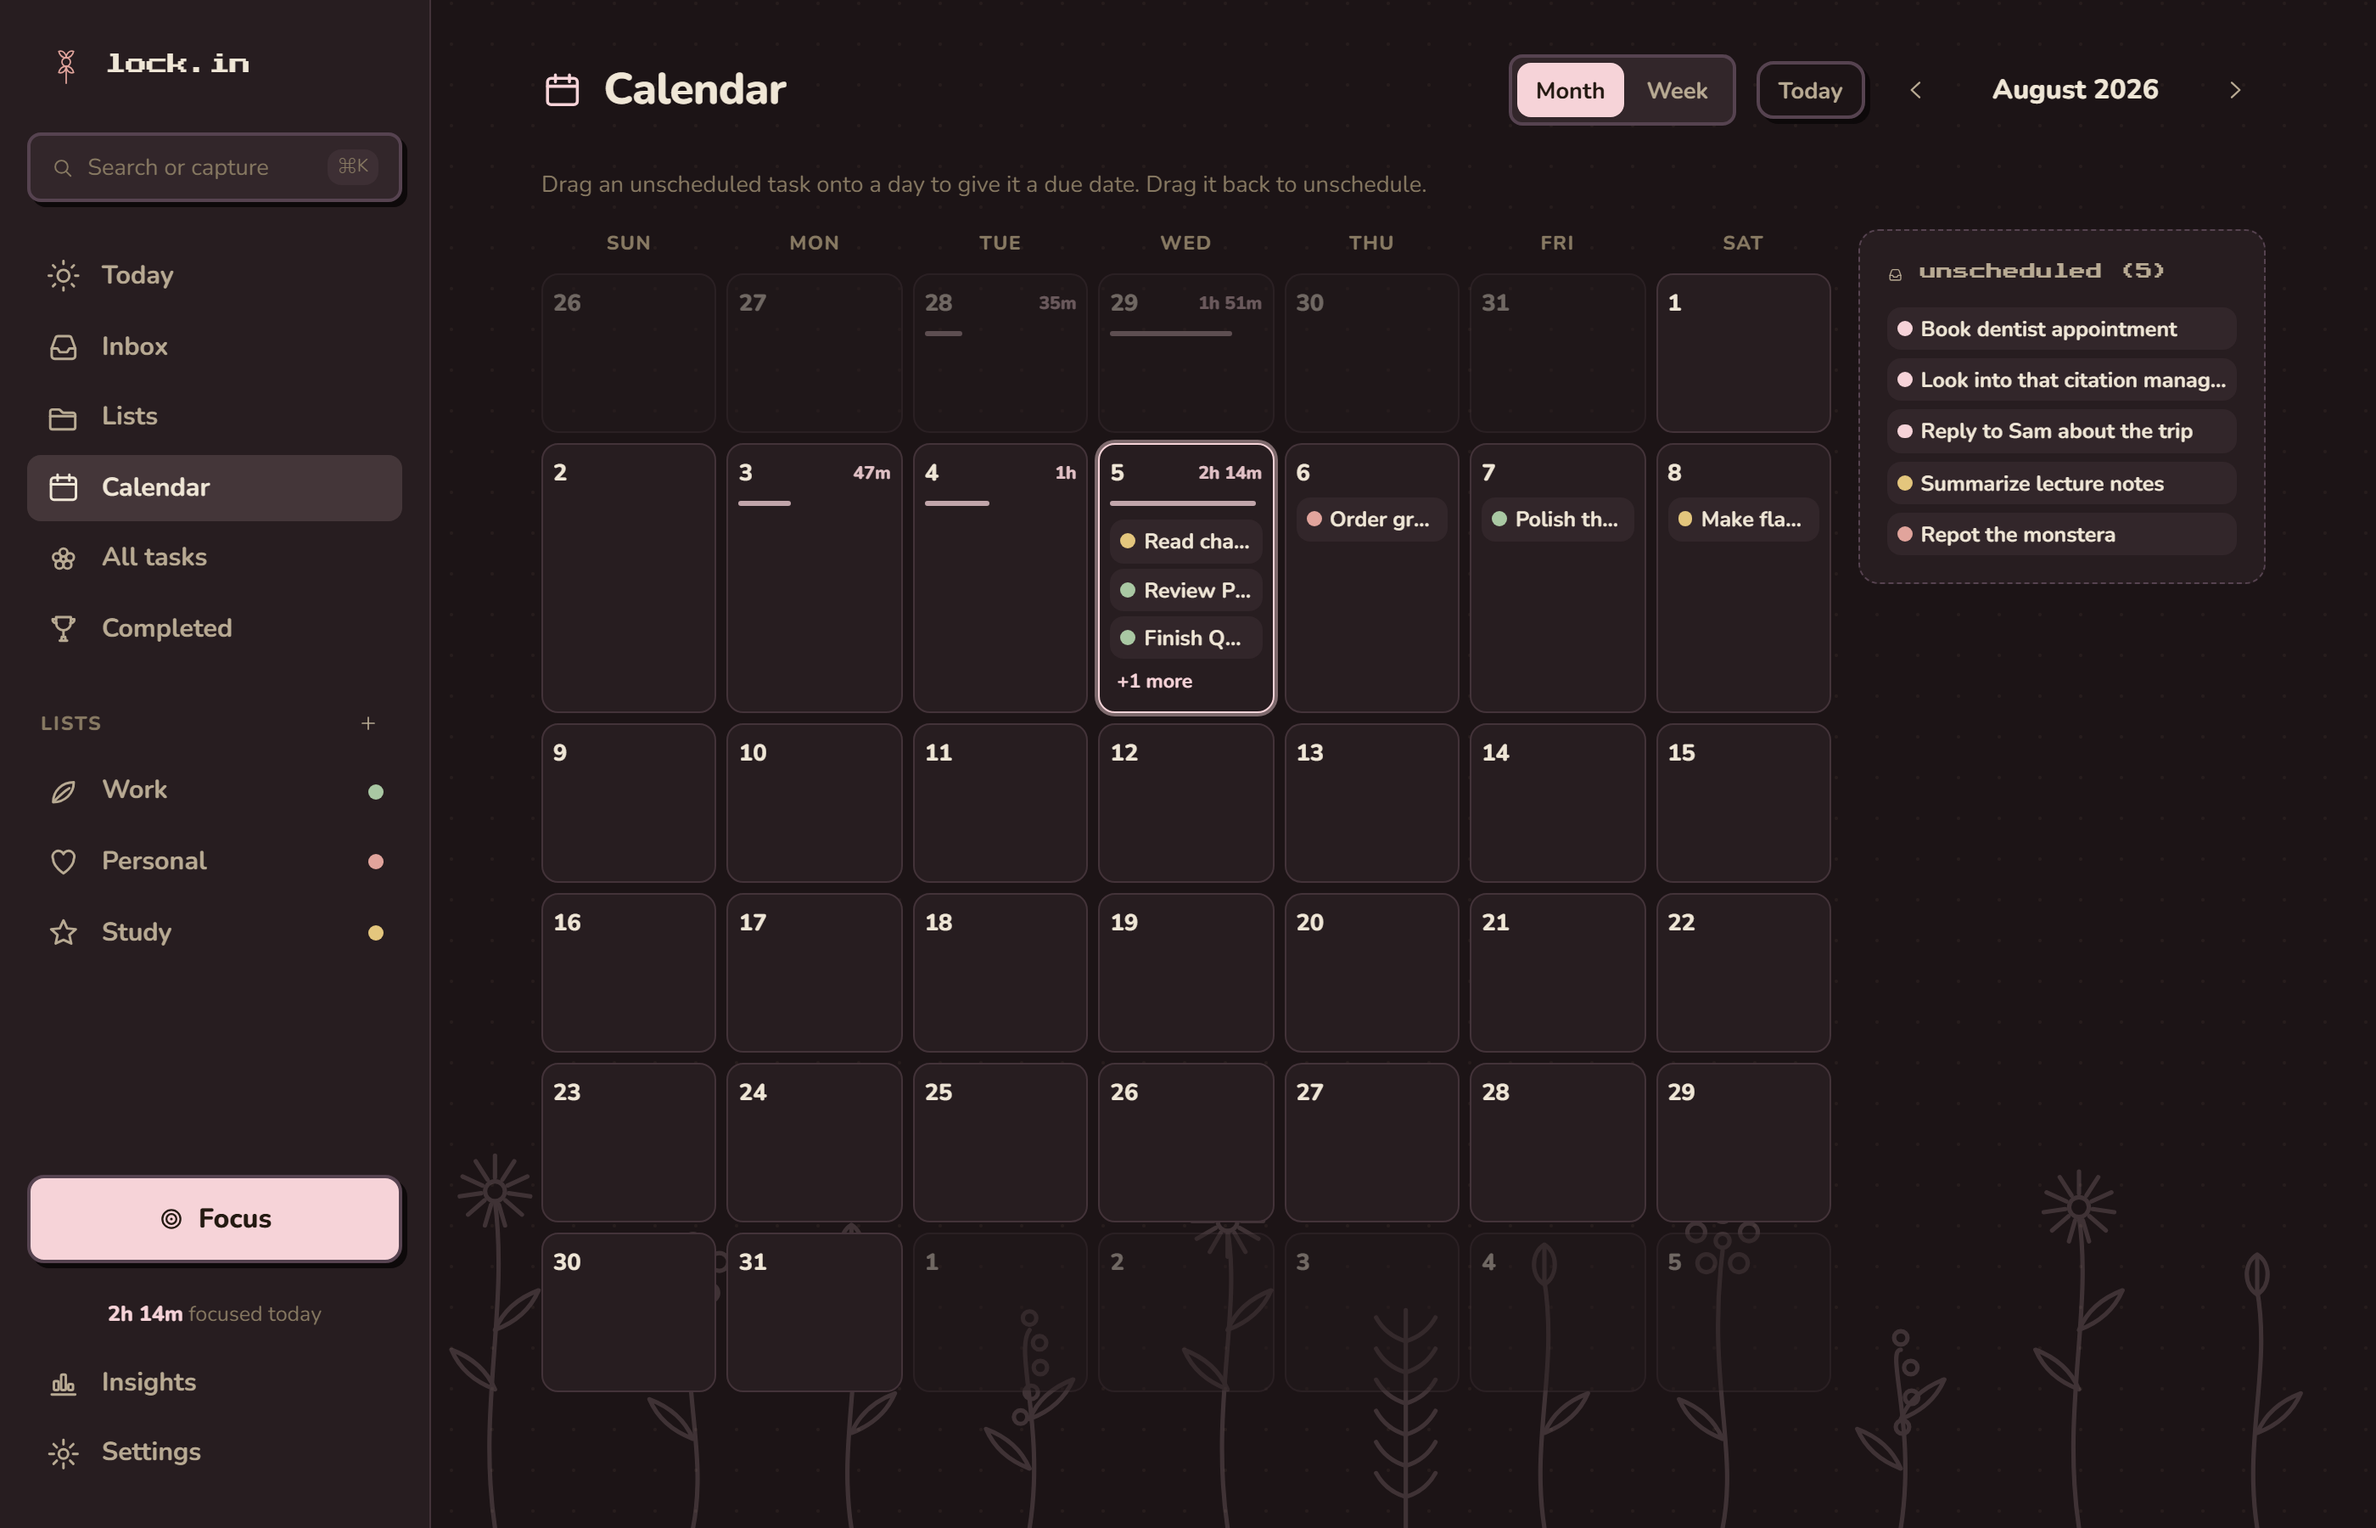
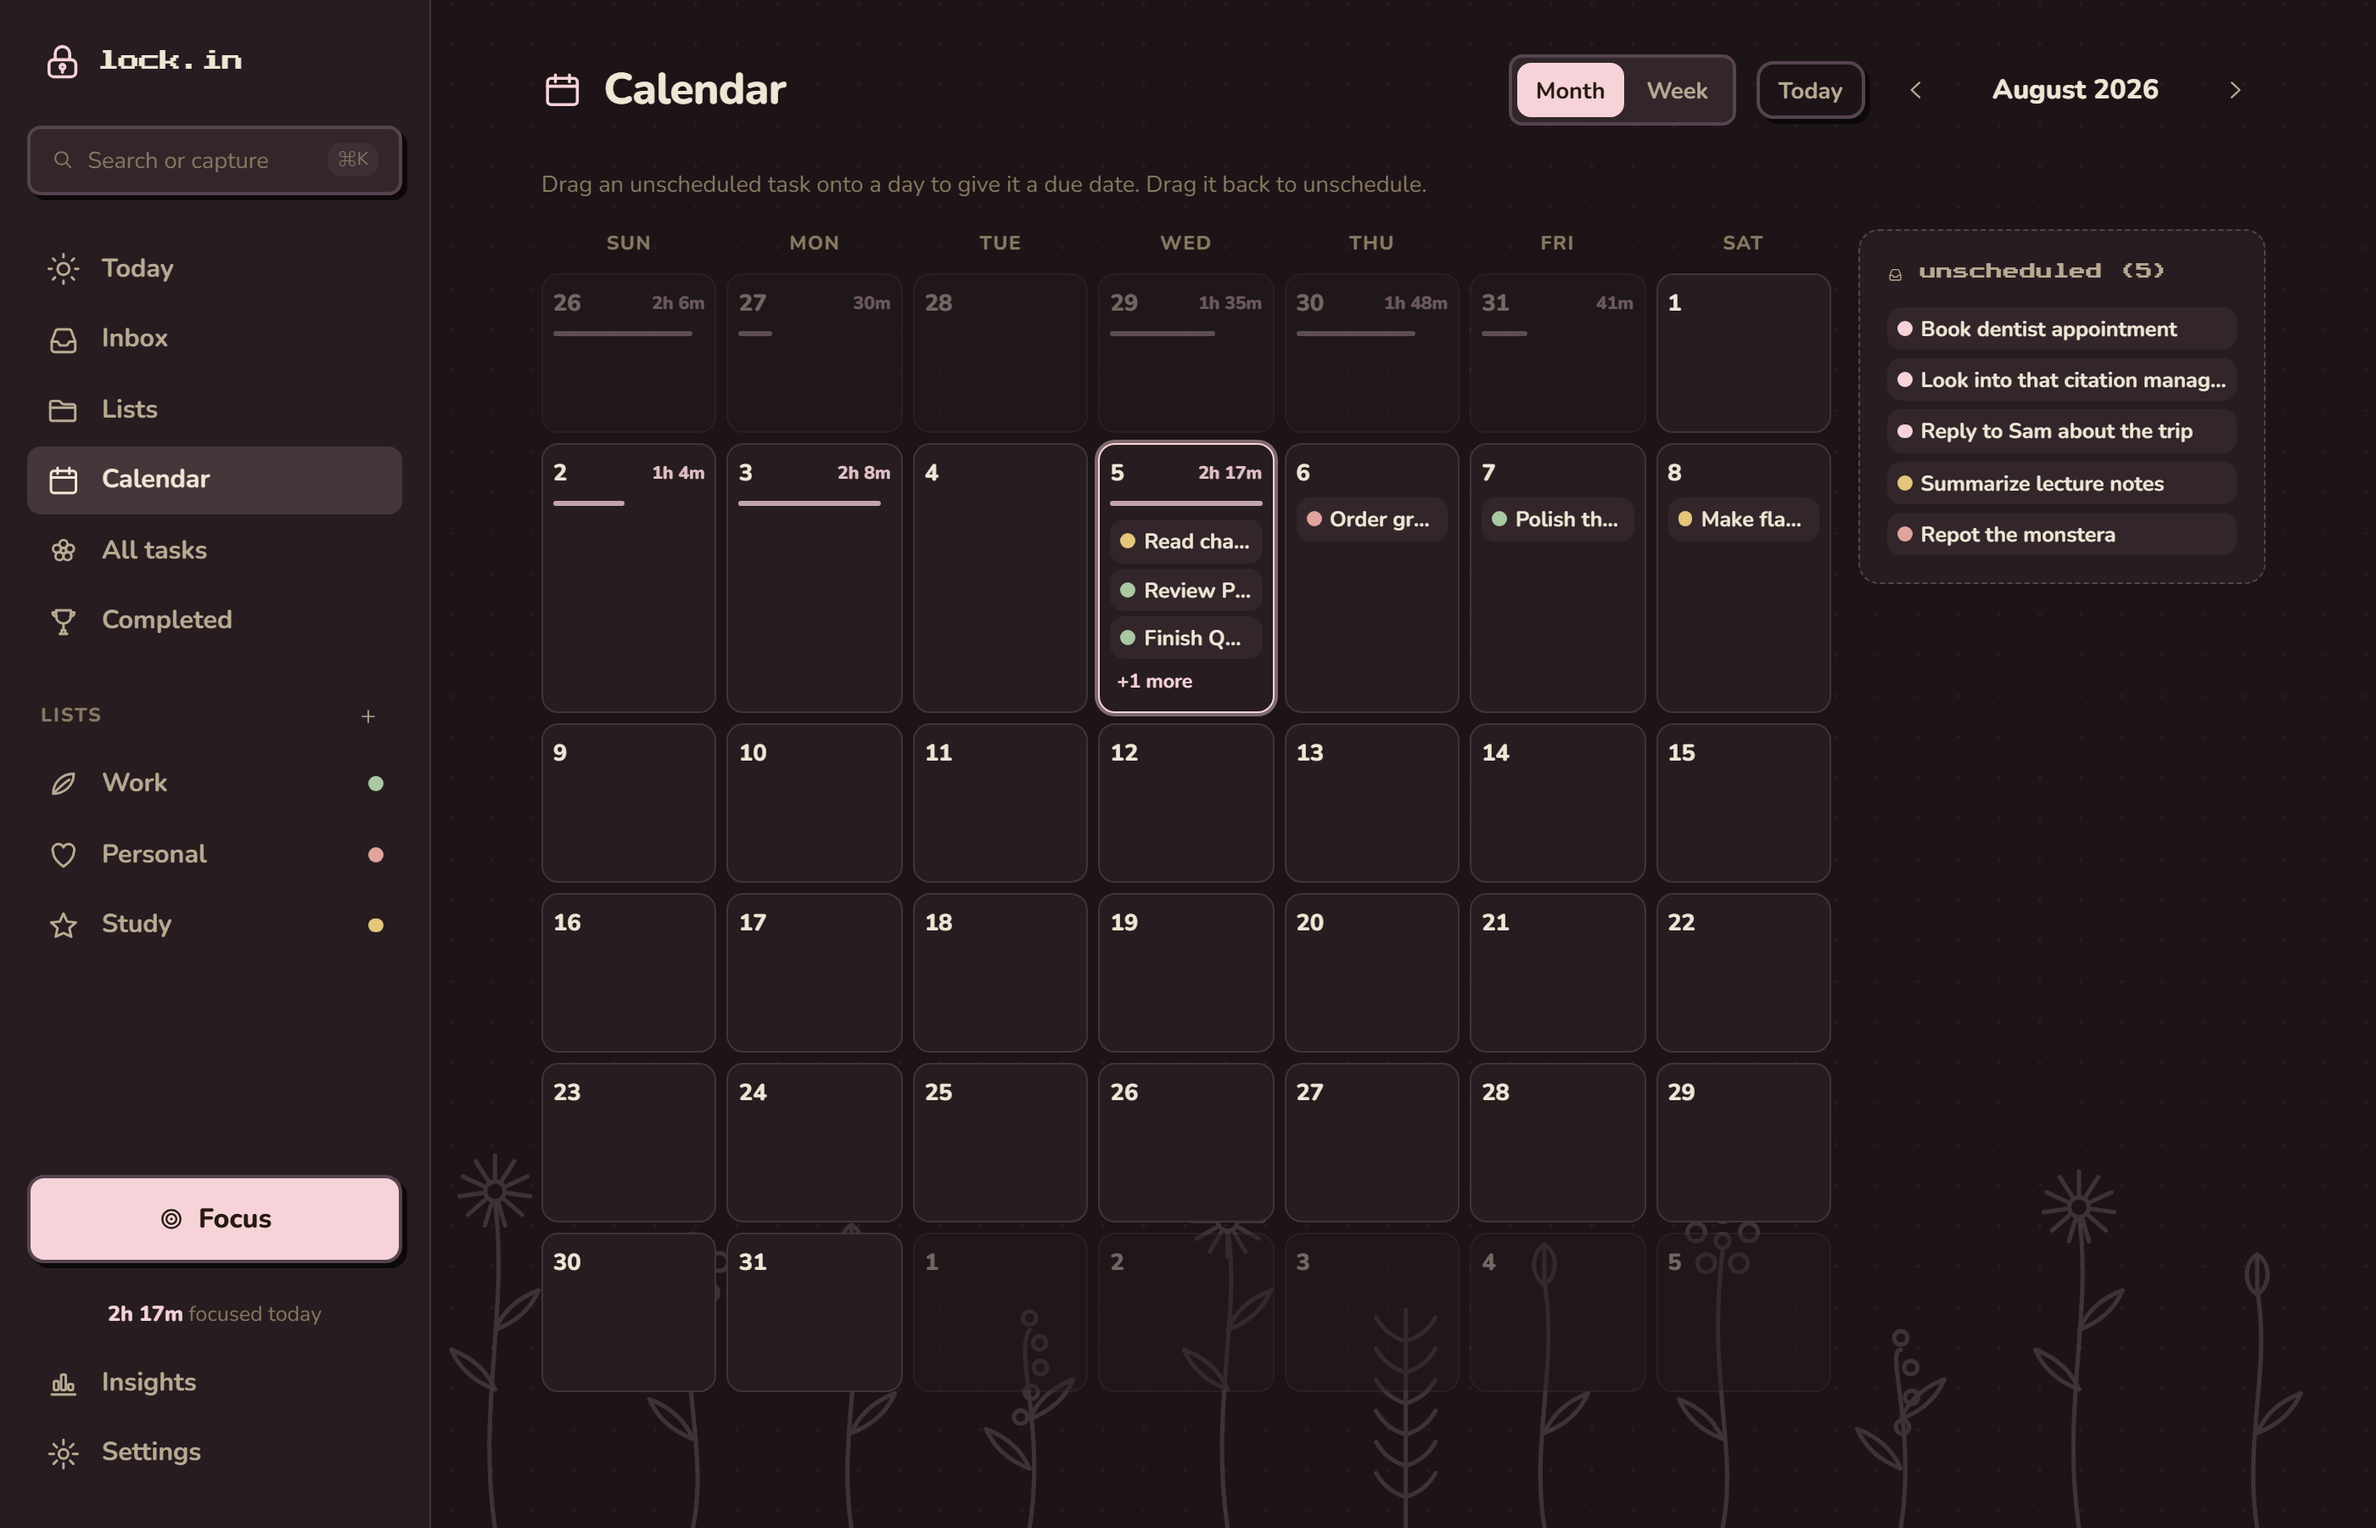
Use one padlock mark everywhere, and give Today's task list room
The brand mark was a flower that changed shape with the vibe, so the logo was
three different things depending on the theme. It's now a single line-drawn
padlock, matching the name, identical across every vibe. The favicon, PWA
icons and Apple touch icon are redrawn from the same shape so the app looks
like itself on a home screen too.

Today's task column was sharing space almost evenly with quick capture, which
only ever holds one input. The rows looked cramped next to the full-width
cards above them, so the split is now 2.2:1 in favour of the tasks.

Copilot-Session: 87884037-54d0-4967-b45f-3a055d461690

diff --git a/src/app/Layout.tsx b/src/app/Layout.tsx
@@ -9,7 +9,6 @@ import { useNativeBlocker } from '../features/focus/nativeBlocker'
 import { useSessionPresence } from '../features/focus/useSessionPresence'
 import { todayFocusedMs } from '../features/insights/aggregations'
 import { formatMinutes } from '../lib/time'
-import { Flourish } from '../components/Flourish'
 import { Icon, ListGlyph } from '../components/Icon'
 import type { IconName } from '../components/Icon'
 import { DecorBackground } from '../components/DecorBackground'
@@ -59,7 +58,7 @@ export function Layout() {
       <DecorBackground />
       <aside className="sidebar">
         <div className="brand">
-          <Flourish variant="bloom" size={30} color="var(--accent-pink)" />
+          <Icon name="lock" className="brand-mark" />
           <span className="brand-name">lock.in</span>
         </div>
 

diff --git a/src/components/Icon.tsx b/src/components/Icon.tsx
@@ -44,6 +44,7 @@ export type IconName =
   | 'circle'
   | 'folder'
   | 'folder-open'
+  | 'lock'
 
 const PATHS: Record<IconName, ReactNode> = {
   sun: (
@@ -220,6 +221,14 @@ const PATHS: Record<IconName, ReactNode> = {
     <>
       <path d="M3 7.5a1.5 1.5 0 0 1 1.5-1.5h4.2a1.5 1.5 0 0 1 1.06.44l1.3 1.3a1.5 1.5 0 0 0 1.06.44h5.38A1.5 1.5 0 0 1 18 9.68v1.32" />
       <path d="M3 18V7.5M3 18a1.5 1.5 0 0 0 1.5 1.5h13.1a1.5 1.5 0 0 0 1.44-1.08l1.6-5.4A1 1 0 0 0 19.68 11H7.4a1.5 1.5 0 0 0-1.44 1.08z" />
+    </>
+  ),
+  lock: (
+    <>
+      <path d="M8 10.5V7.2a4 4 0 0 1 8 0v3.3" />
+      <rect x="4.6" y="10.5" width="14.8" height="9.4" rx="2.6" />
+      <circle cx="12" cy="14.4" r="1.35" />
+      <path d="M12 15.75v1.7" />
     </>
   ),
 }

diff --git a/src/app/app.css b/src/app/app.css
@@ -819,7 +819,10 @@ span.view-icon {
 }
 .home-tasks {
   display: grid;
-  grid-template-columns: minmax(0, 1.4fr) minmax(0, 1fr);
+  /* Quick capture only needs room for one input, so give the task list the
+     space — at an even split the rows looked cramped against the full-width
+     cards above them. */
+  grid-template-columns: minmax(0, 2.2fr) minmax(0, 1fr);
   gap: var(--space-5);
 }
 .muted-note {

diff --git a/src/theme/retro.css b/src/theme/retro.css
@@ -251,6 +251,12 @@
   color: var(--fg-subtle);
 }
 
+.brand-mark {
+  font-size: 1.6rem;
+  color: var(--primary);
+  flex: none;
+}
+
 .nav-section-link {
   color: inherit;
   text-decoration: none;
